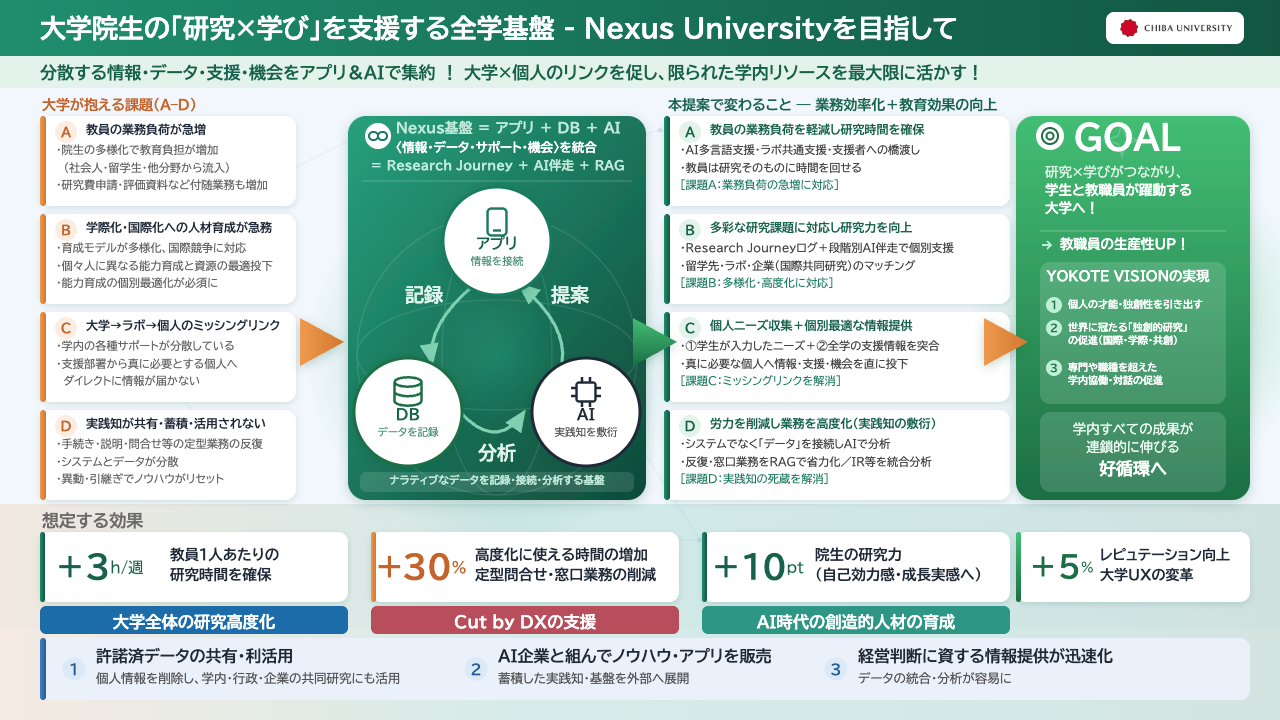
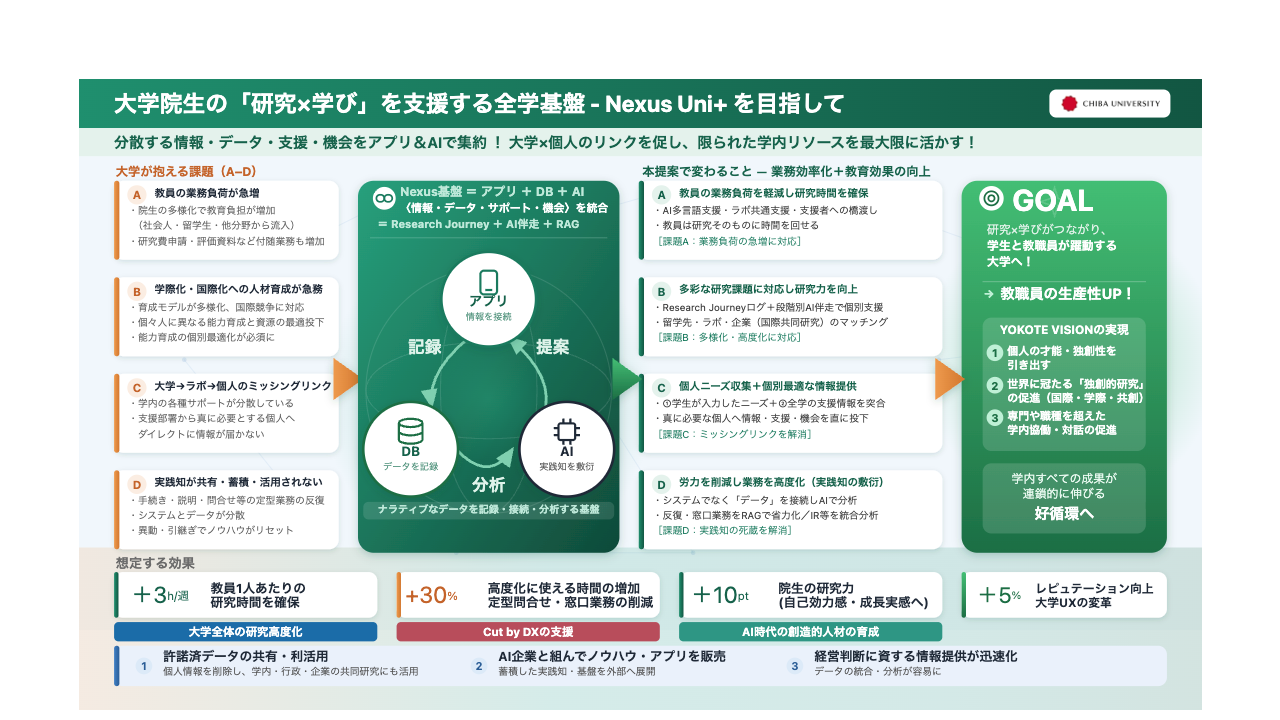
ポンチ絵FInal
BU3を使用。左右での文字のバランスの並び替えを実現、

diff --git a/PonchiE/28/rank08-variant_BU3.md b/PonchiE/28/rank08-variant_BU3.md
@@ -36,7 +36,7 @@ html: true
   <path d="M0 534 L1280 534 L1280 720 L0 720 Z" fill="url(#gBackbone)" opacity="0.16"/>
   <path d="M300 300 C340 300 340 300 348 300" stroke="url(#gBackbone)" stroke-width="18" fill="none" opacity="0.22"/>
   <rect x="0" y="0" width="1280" height="56" fill="url(#gAccH)"/>
-  <text x="40" y="38" font-size="26" font-weight="700" fill="#ffffff">大学院生の「研究×学び」を支援する全学基盤 ‐ Nexus Uni+ を目指して</text>
+  <text x="40" y="38" font-size="26" font-weight="700" fill="#ffffff">大学院生の「研究×学び」を支援する全学基盤 ― Nexus Uni+ を目指して</text>
   <rect x="1106" y="12" width="138" height="32" rx="8" fill="#ffffff"/>
   <image href="./src/chiba-logo.png" x="1120" y="18" width="112" height="20"/>
   <rect x="0" y="56" width="1280" height="32" fill="#E4F2EC"/>
@@ -137,7 +137,7 @@ html: true
   <rect x="638" y="446" width="346" height="90" rx="11" fill="#ffffff" filter="url(#shSoft)"/>
   <rect x="638" y="446" width="6" height="90" rx="3" fill="url(#gAccH)"/>
   <circle cx="664" cy="462" r="11" fill="#E4F2EC"/>
-  <text x="664" y="462" font-size="13" font-weight="700" fill="#16624b" text-anchor="middle" dominant-baseline="central">D</text>
+  <text x="664" cy="462" font-size="13" font-weight="700" fill="#16624b" text-anchor="middle" dominant-baseline="central">D</text>
   <text x="684" y="464" font-size="12" font-weight="700" fill="#16624b">労力を削減し業務を高度化（実践知の敷衍）</text>
   <text x="654" y="484" font-size="11.2" fill="#444">・システムでなく「データ」を接続しAIで分析</text>
   <text x="654" y="501.5" font-size="11.2" fill="#444">・反復・窓口業務をRAGで省力化／IR等を統合分析</text>
